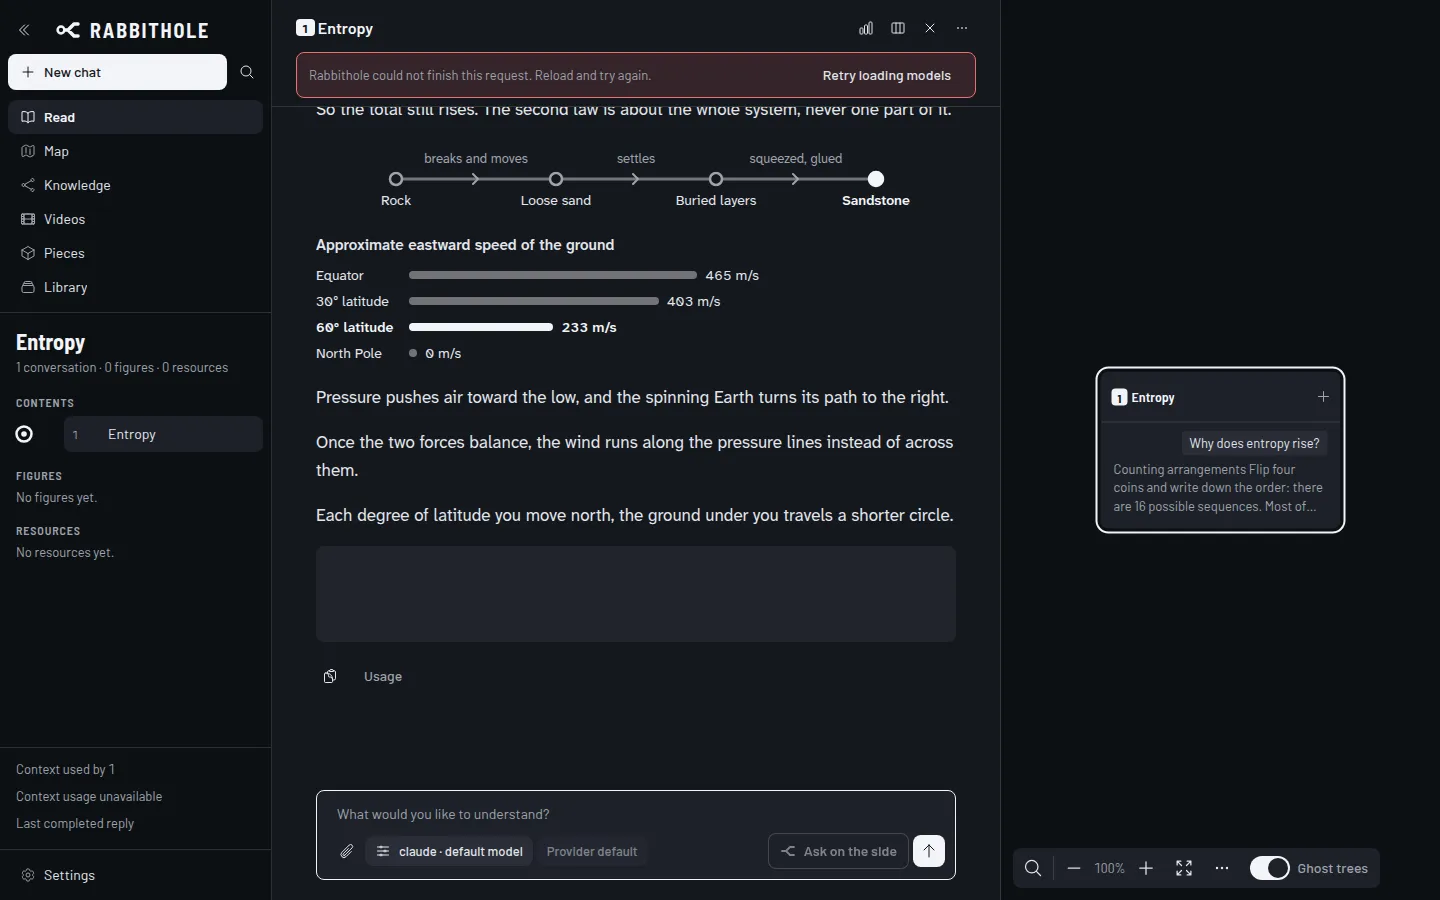
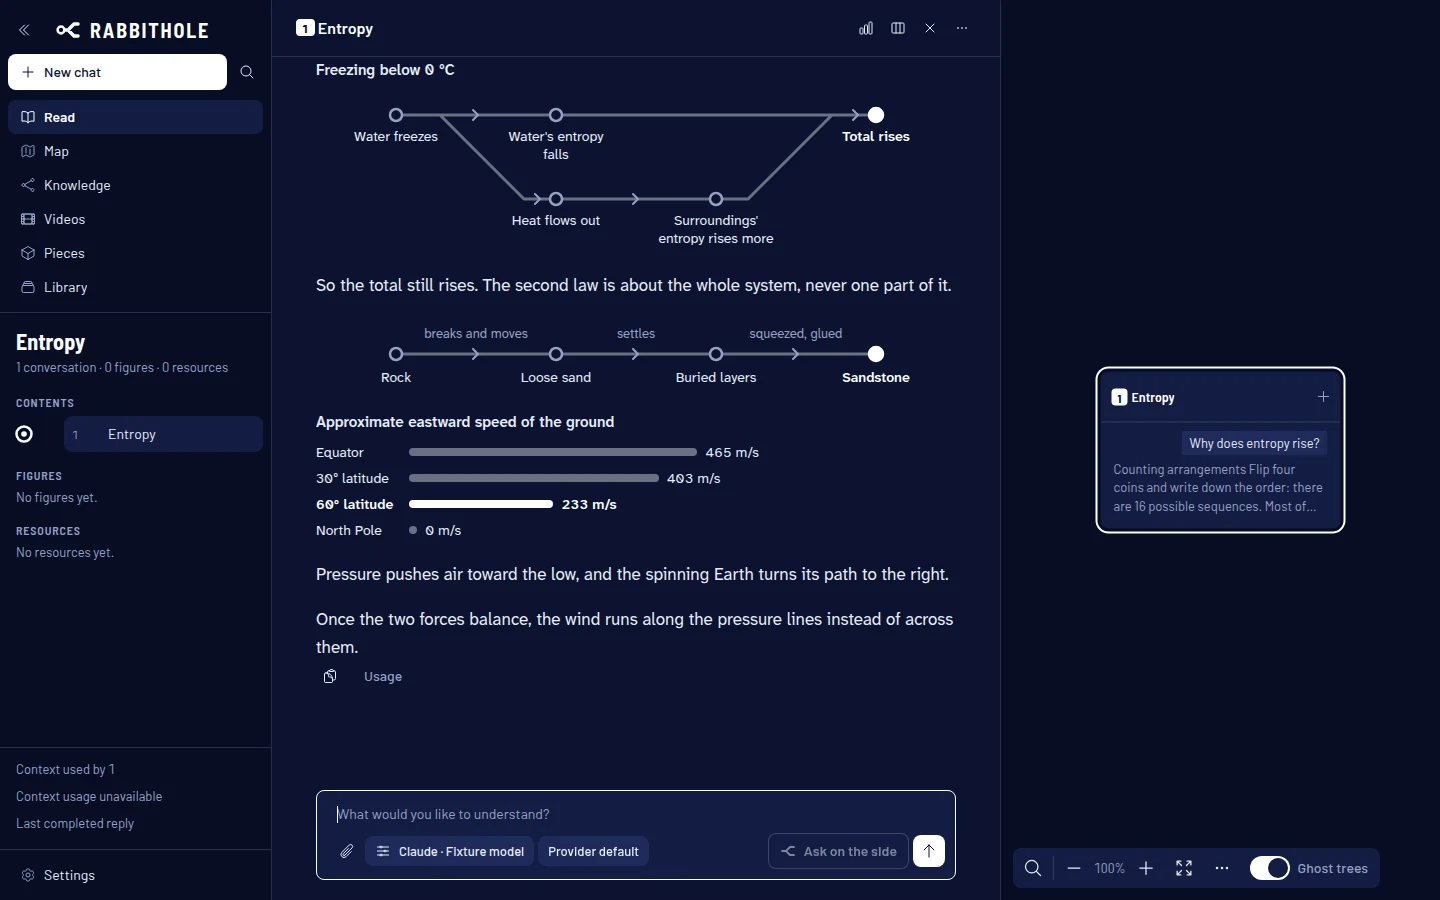
fix(sketches): validate sketch input and follow the reply stream

diff --git a/src/sketch/sketch.ts b/src/sketch/sketch.ts
@@ -21,14 +21,15 @@ export function drawSketch(
     body: string,
     palette: Palette,
 ): Sketch | { error: string } {
-    const draw = KINDS[kind.trim().toLowerCase() as keyof typeof KINDS];
+    const draw = KINDS.get(kind.trim().toLowerCase());
     if (!draw) return { error: `unknown kind "${kind.trim()}"` };
     const lines = body
-        .split(/\r?\n/)
+        .split(/\r\n?|\n/)
         .map((text, i) => ({ text: text.trim(), at: i + 1 }))
         .filter((l) => l.text);
     const title = lines[0] && /^title\s*:/i.test(lines[0].text) ? lines.shift()! : undefined;
     if (!lines.length) return { error: 'empty body' };
+    if (lines.length > 8) return { error: 'more than eight items' };
     const drawing = draw(lines, palette);
     return 'error' in drawing
         ? drawing
@@ -71,6 +72,7 @@ function flow(lines: Line[], p: Palette): Drawing {
         if (colon >= 0) steps[steps.length - 1] = last.slice(0, colon);
         if (steps.length < 2 || steps.some((s) => !plain(s)))
             return { error: `${quoted(line)} is not A -> B` };
+        if (edges.length + steps.length - 1 > 8) return { error: 'more than eight steps' };
         for (let i = 0; i + 1 < steps.length; i++)
             edges.push({
                 a: node(steps[i]),
@@ -101,7 +103,8 @@ function flow(lines: Line[], p: Palette): Drawing {
         row.set(n, parent && row.has(parent.a) ? row.get(parent.a)! : rows++);
     }
     const column = WIDTH / (Math.max(...rank.values()) + 1),
-        top = 24 + (edges.some((e) => e.label && row.get(e.b) === 0) ? 16 : 0),
+        notesAbove = edges.some((e) => e.label && row.get(e.b) === 0),
+        top = notesAbove ? 40 : 24,
         x = (n: string) => column * (rank.get(n)! + 0.5),
         y = (n: string) => top + ROW * row.get(n)!;
     // Each edge turns only at 45 or 90 degrees, then runs straight along its target's row.
@@ -129,7 +132,9 @@ function flow(lines: Line[], p: Palette): Drawing {
                 way > 0
                     ? Math.max(...into.map((r) => r.from))
                     : Math.min(...into.map((r) => r.from)),
-            tip = (from + tx) / 2 + 2 * way;
+            // Centre a short fork approach and give a chevron after a rejoin more room past the bend.
+            offset = into.length > 1 ? 4 : from === x(into[0].e.a) ? 2 : 0,
+            tip = (from + tx) / 2 + offset * way;
         chevrons.add(`M${tip - 5 * way} ${y(n) - 5}L${tip} ${y(n)}L${tip - 5 * way} ${y(n) + 5}`);
     }
     let bottom = 0;
@@ -137,11 +142,12 @@ function flow(lines: Line[], p: Palette): Drawing {
         `<text${note ? ' class="sketch-note"' : ''} x="${tx}" y="${ty}" style="${style}">${esc(words)}</text>`;
     const labels = names.flatMap((n) =>
         wrap(n, column - 24).map((l, i) => {
-            bottom = Math.max(bottom, y(n) + 26 + LINE * i);
+            const baseline = y(n) + (notesAbove ? 28 : 26) + LINE * i;
+            bottom = Math.max(bottom, baseline);
             const f = focus.has(n);
             return text(
                 x(n),
-                y(n) + 26 + LINE * i,
+                baseline,
                 l,
                 `fill:${f ? p.focus : p.ink}${f ? ';font-weight:600' : ''}`,
             );
@@ -158,7 +164,7 @@ function flow(lines: Line[], p: Palette): Drawing {
             : `<circle cx="${x(n)}" cy="${y(n)}" r="6" style="fill:${p.ground};stroke:${p.muted}"/>`,
     );
     const markup =
-        `<svg class="sketch-flow" viewBox="0 0 ${WIDTH} ${bottom + 10}">` +
+        `<svg class="sketch-flow" viewBox="0 0 ${WIDTH} ${bottom + (notesAbove ? 10 : 8)}">` +
         `<path class="sketch-line" style="stroke:${p.seam}" d="${runs.map((r) => r.d).join('')}"/>` +
         `<path class="sketch-arrow" style="stroke:${p.muted}" d="${[...chevrons].join('')}"/>` +
         arrowLabels.join('') +
@@ -189,10 +195,14 @@ function bars(lines: Line[], p: Palette): Drawing {
         const colon = line.text.lastIndexOf(':'),
             label = plain(line.text.slice(0, Math.max(colon, 0))),
             value = plain(line.text.slice(colon + 1)),
-            number = /^-?(?:\d[\d,]*)?\.?\d+/.exec(value)?.[0];
+            number =
+                /^-?(?:(?:\d{1,3}(?:,\d{3})+|\d+)(?:\.\d+)?|\.\d+)(?:e[+-]?\d+)?(?![\d.,])/i.exec(
+                    value,
+                )?.[0];
         if (colon < 1 || !label) return { error: `${quoted(line)} is not label: number` };
         if (number === undefined) return { error: `${quoted(line)} has no number` };
-        const n = parseFloat(number.replace(/,/g, ''));
+        const n = Number(number.replace(/,/g, ''));
+        if (!Number.isFinite(n)) return { error: `${quoted(line)} is out of range` };
         if (n < 0) return { error: `${quoted(line)} is below zero` };
         rows.push({ label, value, n, focus: isFocus(line.text) });
     }
@@ -218,4 +228,7 @@ function bars(lines: Line[], p: Palette): Drawing {
     return { items, markup };
 }
 
-const KINDS = { flow, bars };
+const KINDS = new Map([
+    ['flow', flow],
+    ['bars', bars],
+]);

diff --git a/src/markdown/markdown.ts b/src/markdown/markdown.ts
@@ -3,7 +3,7 @@ import { createElement as h, Fragment, type ReactNode } from 'react';
 import { decodeString } from 'micromark-util-decode-string';
 import { Code } from '@astryxdesign/core/Code';
 import { Text, Heading } from '@astryxdesign/core/Text';
-import { parse, plainText, type MarkdownNode } from './markdownText.ts';
+import { isSketch, parse, plainText, type MarkdownNode } from './markdownText.ts';
 import CopyButton from './CopyButton.ts';
 import Sketch from './Sketch.tsx';
 import { codeTokens } from './codeTokens.ts';
@@ -110,6 +110,7 @@ export function renderMarkdown(
     sources: Record<string, ImageSource> = {},
     flow = false,
     resources: Record<string, string> = {},
+    sketches: 'off' | 'streaming' | 'saved' = 'saved',
 ): ReactNode {
     let revealed = 0;
     let imageLink: string | undefined;
@@ -380,19 +381,17 @@ export function renderMarkdown(
                 });
             }
             case 'code': {
-                if (n.lang === 'sketch') {
-                    // Never its source, even under a saved reveal; an unclosed fence is still streaming.
-                    // shortcut: a finished reply whose sketch fence never closed keeps its placeholder; close it on final if one appears.
+                if (sketches !== 'off' && isSketch(n)) {
                     if (hit(s, e)) revealed++;
-                    const fence = /^(`{3,}|~{3,})/.exec(raw.slice(s, e))![1],
-                        last = raw.slice(s, e).split(/\r?\n/).slice(1).at(-1) ?? '';
                     return h(Sketch, {
                         ...attrs,
                         kind: n.meta ?? '',
                         body: n.value ?? '',
-                        open: !new RegExp(`^[\\s>]*\\${fence[0]}{${fence.length},}\\s*$`).test(
-                            last,
-                        ),
+                        fence: n.sketchClosed
+                            ? 'closed'
+                            : sketches === 'streaming'
+                              ? 'open'
+                              : 'unfinished',
                     });
                 }
                 const lines = sourceLines(raw, n, true),

diff --git a/src/markdown/markdownText.ts b/src/markdown/markdownText.ts
@@ -19,6 +19,7 @@ export type MarkdownNode = {
     url?: string;
     lang?: string | null;
     meta?: string | null;
+    sketchClosed?: boolean;
     alt?: string | null;
     identifier?: string;
     align?: ('left' | 'right' | 'center' | null)[];
@@ -152,6 +153,15 @@ const bracketMathFromMarkdown: MdastExtension = {
     },
     exit: { bracketMathText: exitMath, bracketMathDisplay: exitMath, dollarMathDisplay: exitMath },
 };
+const sketchFences: MdastExtension = {
+    enter: {
+        codeFencedFence() {
+            const code = this.stack.at(-2) as MarkdownNode | undefined;
+            // The closing fence arrives while the parser is buffering the code body.
+            if (code?.type === 'code' && code.lang === 'sketch') code.sketchClosed = true;
+        },
+    },
+};
 export const parse = (text: string) =>
     fromMarkdown(text, {
         extensions: [
@@ -166,13 +176,31 @@ export const parse = (text: string) =>
             mathFromMarkdown(),
             bracketMathFromMarkdown,
             directiveFromMarkdown(),
+            sketchFences,
         ],
     }) as MarkdownNode;
+
+export const isSketch = (node: MarkdownNode) => node.type === 'code' && node.lang === 'sketch';
+
+// The clipboard keeps reply Markdown and omits the syntax used to draw sketches.
+export function withoutSketches(raw: string) {
+    if (!raw.includes('```') && !raw.includes('~~~')) return raw;
+    let from = 0,
+        result = '';
+    const walk = (node: MarkdownNode) => {
+        if (isSketch(node)) {
+            result += raw.slice(from, node.position!.start.offset!);
+            from = node.position!.end.offset!;
+        } else node.children?.forEach(walk);
+    };
+    walk(parse(raw));
+    return result + raw.slice(from);
+}
 
 // Derived display text only. Never replace the canonical message or its offsets with this.
 export function plainText(raw: string): string {
     const walk = (n: MarkdownNode): string =>
-        n.type === 'definition'
+        n.type === 'definition' || isSketch(n)
             ? ''
             : n.type === 'break'
               ? ' '

diff --git a/src/markdown/Sketch.tsx b/src/markdown/Sketch.tsx
@@ -15,21 +15,27 @@ const THEME: Palette = {
 export default function Sketch({
     kind,
     body,
-    open,
+    fence,
 }: {
     kind: string;
     body: string;
-    open: boolean;
+    fence: 'open' | 'closed' | 'unfinished';
 }) {
     const sketch = useMemo(
-        () => (open ? undefined : drawSketch(kind, body, THEME)),
-        [kind, body, open],
+        () => (fence === 'closed' ? drawSketch(kind, body, THEME) : undefined),
+        [kind, body, fence],
     );
-    const error = sketch && 'error' in sketch ? sketch.error : undefined;
+    const error =
+        fence === 'unfinished'
+            ? 'unclosed fence'
+            : sketch && 'error' in sketch
+              ? sketch.error
+              : undefined;
     useEffect(() => {
         if (error) console.warn(`Sketch hidden (${kind.trim()}): ${error}`);
     }, [kind, error]);
-    if (open) return <div className="sketch-wait" role="status" aria-label="Drawing a sketch" />;
+    if (fence === 'open')
+        return <div className="sketch-wait" role="status" aria-label="Drawing a sketch" />;
     if (!sketch || 'error' in sketch) return null;
     return (
         <figure className="sketch" aria-label={sketch.title ? `Sketch: ${sketch.title}` : 'Sketch'}>

diff --git a/src/chat/Reply.tsx b/src/chat/Reply.tsx
@@ -26,6 +26,7 @@ const LAYOUT_MIN_WIDTH = 480;
 // Parsing is memoised so streaming chunks and selection state changes reuse the rendered tree.
 const Reply = memo(function Reply({
     text,
+    streaming,
     tools = [],
     reveal,
     underlines,
@@ -39,6 +40,7 @@ const Reply = memo(function Reply({
     resources = [],
 }: {
     text: string;
+    streaming?: boolean;
     tools?: ToolCall[];
     reveal?: Source;
     underlines: { start: number; end: number; child?: string }[];
@@ -148,9 +150,11 @@ const Reply = memo(function Reply({
                         imageSources(tools),
                         narrow,
                         links,
+                        streaming === undefined ? 'off' : streaming ? 'streaming' : 'saved',
                     ),
                 [
                     text,
+                    streaming,
                     reveal?.start,
                     reveal?.end,
                     reveal?.text,

diff --git a/src/chat/ChatThread.tsx b/src/chat/ChatThread.tsx
@@ -8,6 +8,7 @@ import DiscussionCard from '../media/DiscussionCard';
 import VideoCard from '../media/VideoCard';
 import VisualFrame from '../media/VisualFrame';
 import CopyButton from '../markdown/CopyButton';
+import { withoutSketches } from '../markdown/markdownText';
 import { artifactsAt } from '../media/artifacts';
 import { visualsReady } from '../media/visualProgress';
 import { replyUsageLine } from './turn';
@@ -137,7 +138,7 @@ export default function ChatThread({
                         <HStack gap={2} vAlign="center">
                             {message.status === 'completed' && (
                                 <CopyButton
-                                    text={message.text}
+                                    text={withoutSketches(message.text)}
                                     label={`Copy tutor reply ${index}`}
                                     className="reply-copy"
                                 />

diff --git a/src/chat/Passage.tsx b/src/chat/Passage.tsx
@@ -395,6 +395,7 @@ export default function Passage({
             >
                 <Reply
                     tools={message.tools}
+                    streaming={message.status === 'streaming'}
                     text={
                         message.text ||
                         (message.status === 'streaming'

diff --git a/src/markdown/sketch.css b/src/markdown/sketch.css
@@ -3,7 +3,10 @@
 .sketch-wait {
     position: relative;
     max-width: 640px;
-    margin-block-end: 20px;
+    margin: 8px 0 20px;
+}
+.reply-md > p + :is(.sketch, .sketch-wait) {
+    margin-block-start: 15px;
 }
 .sketch figcaption {
     margin-bottom: 10px;
